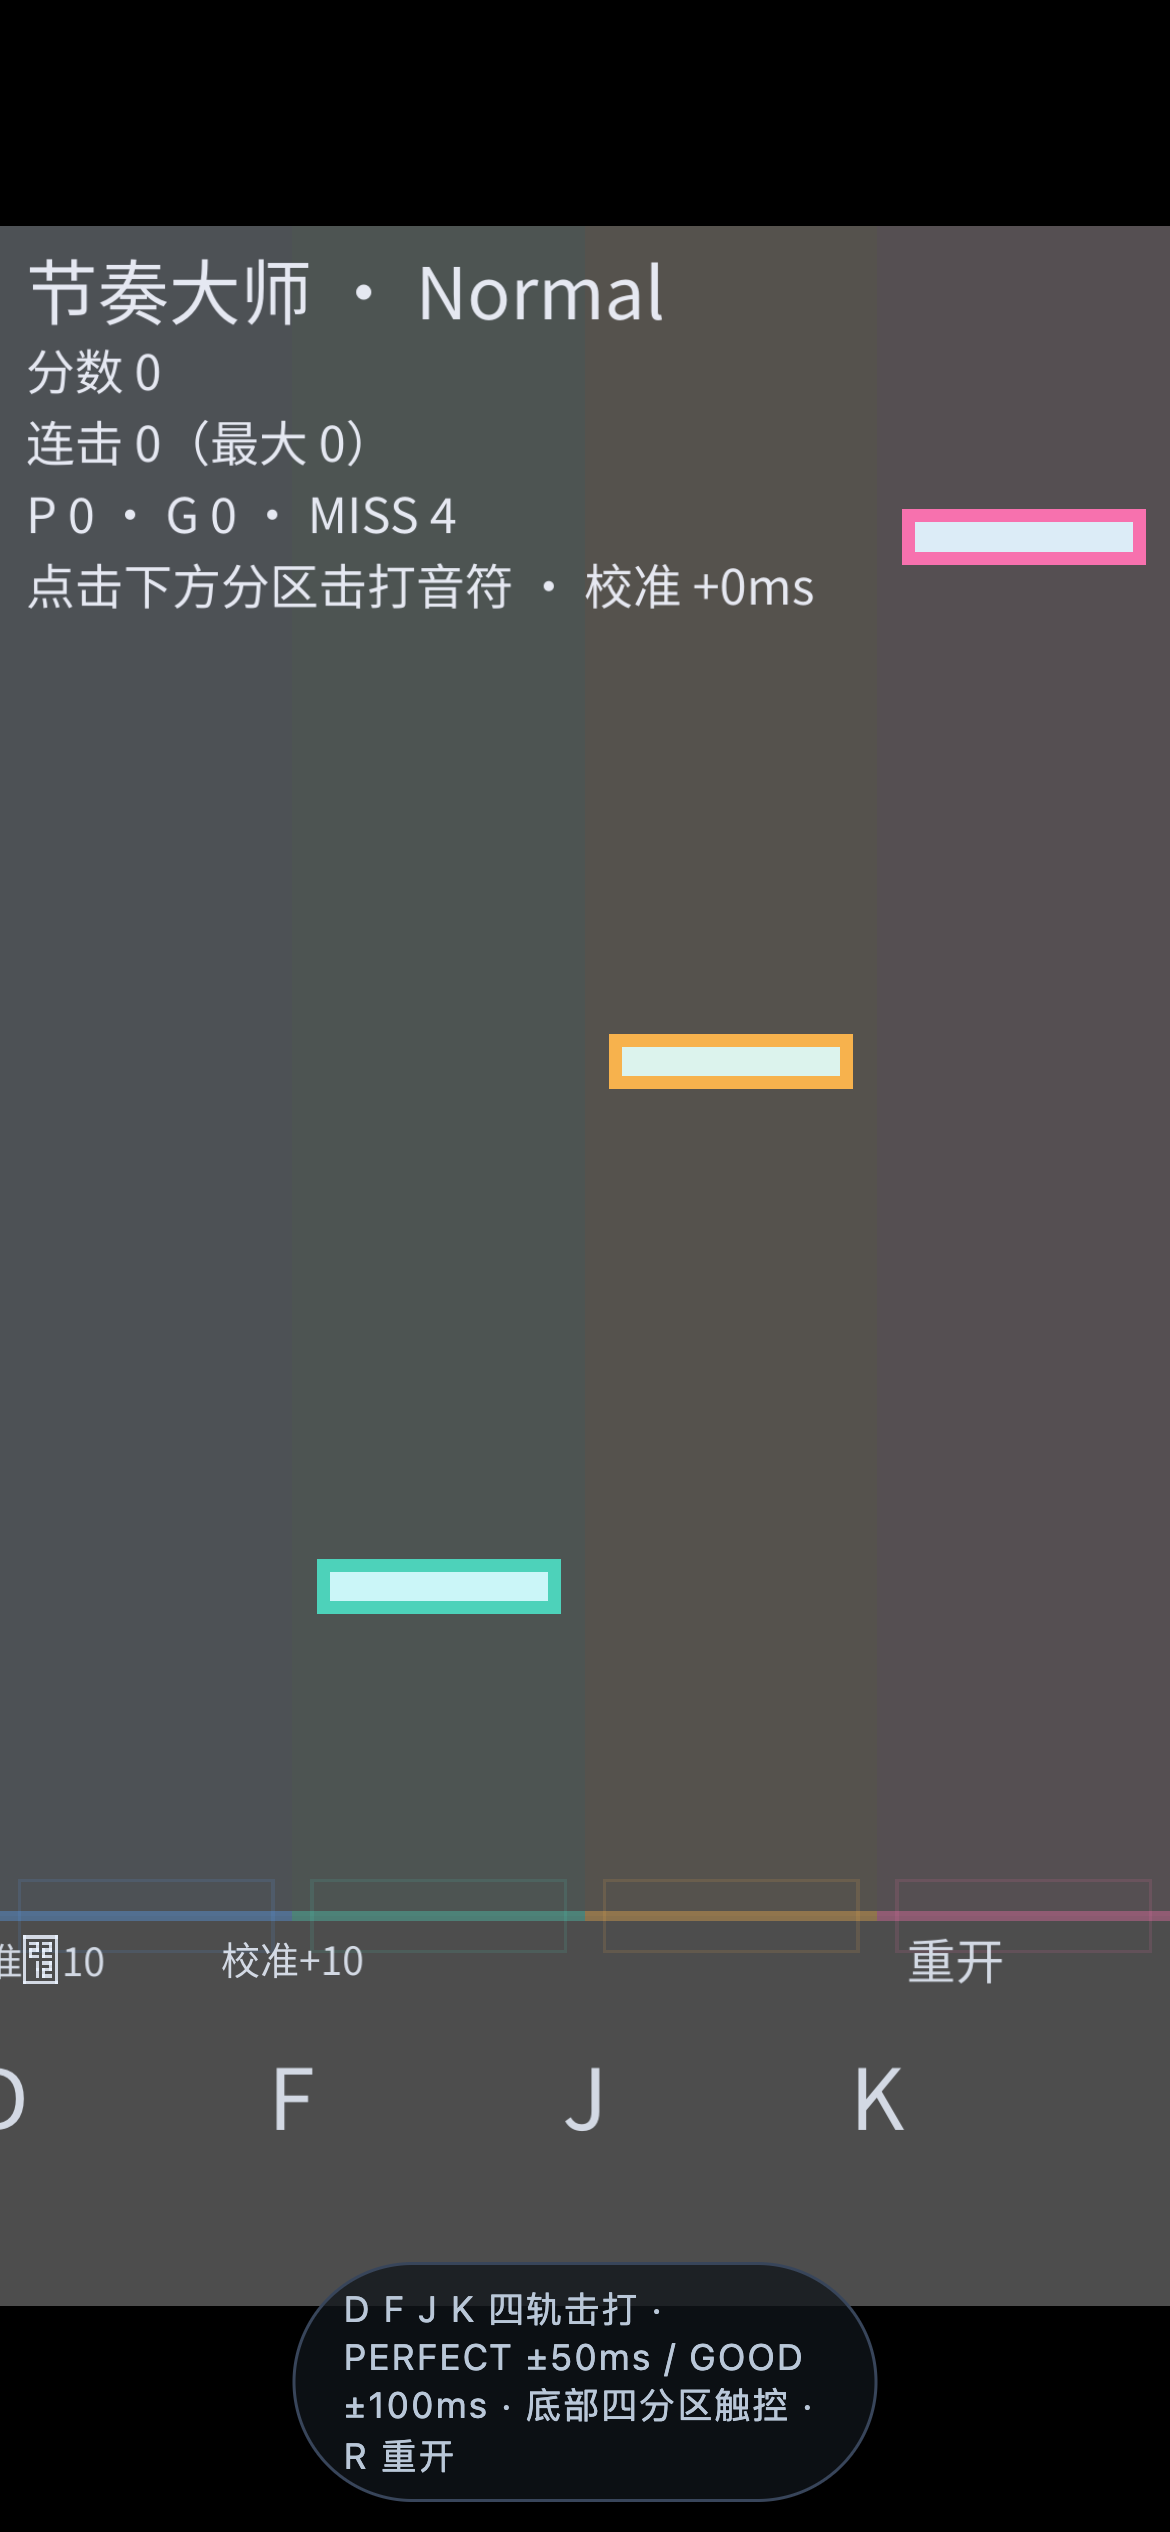
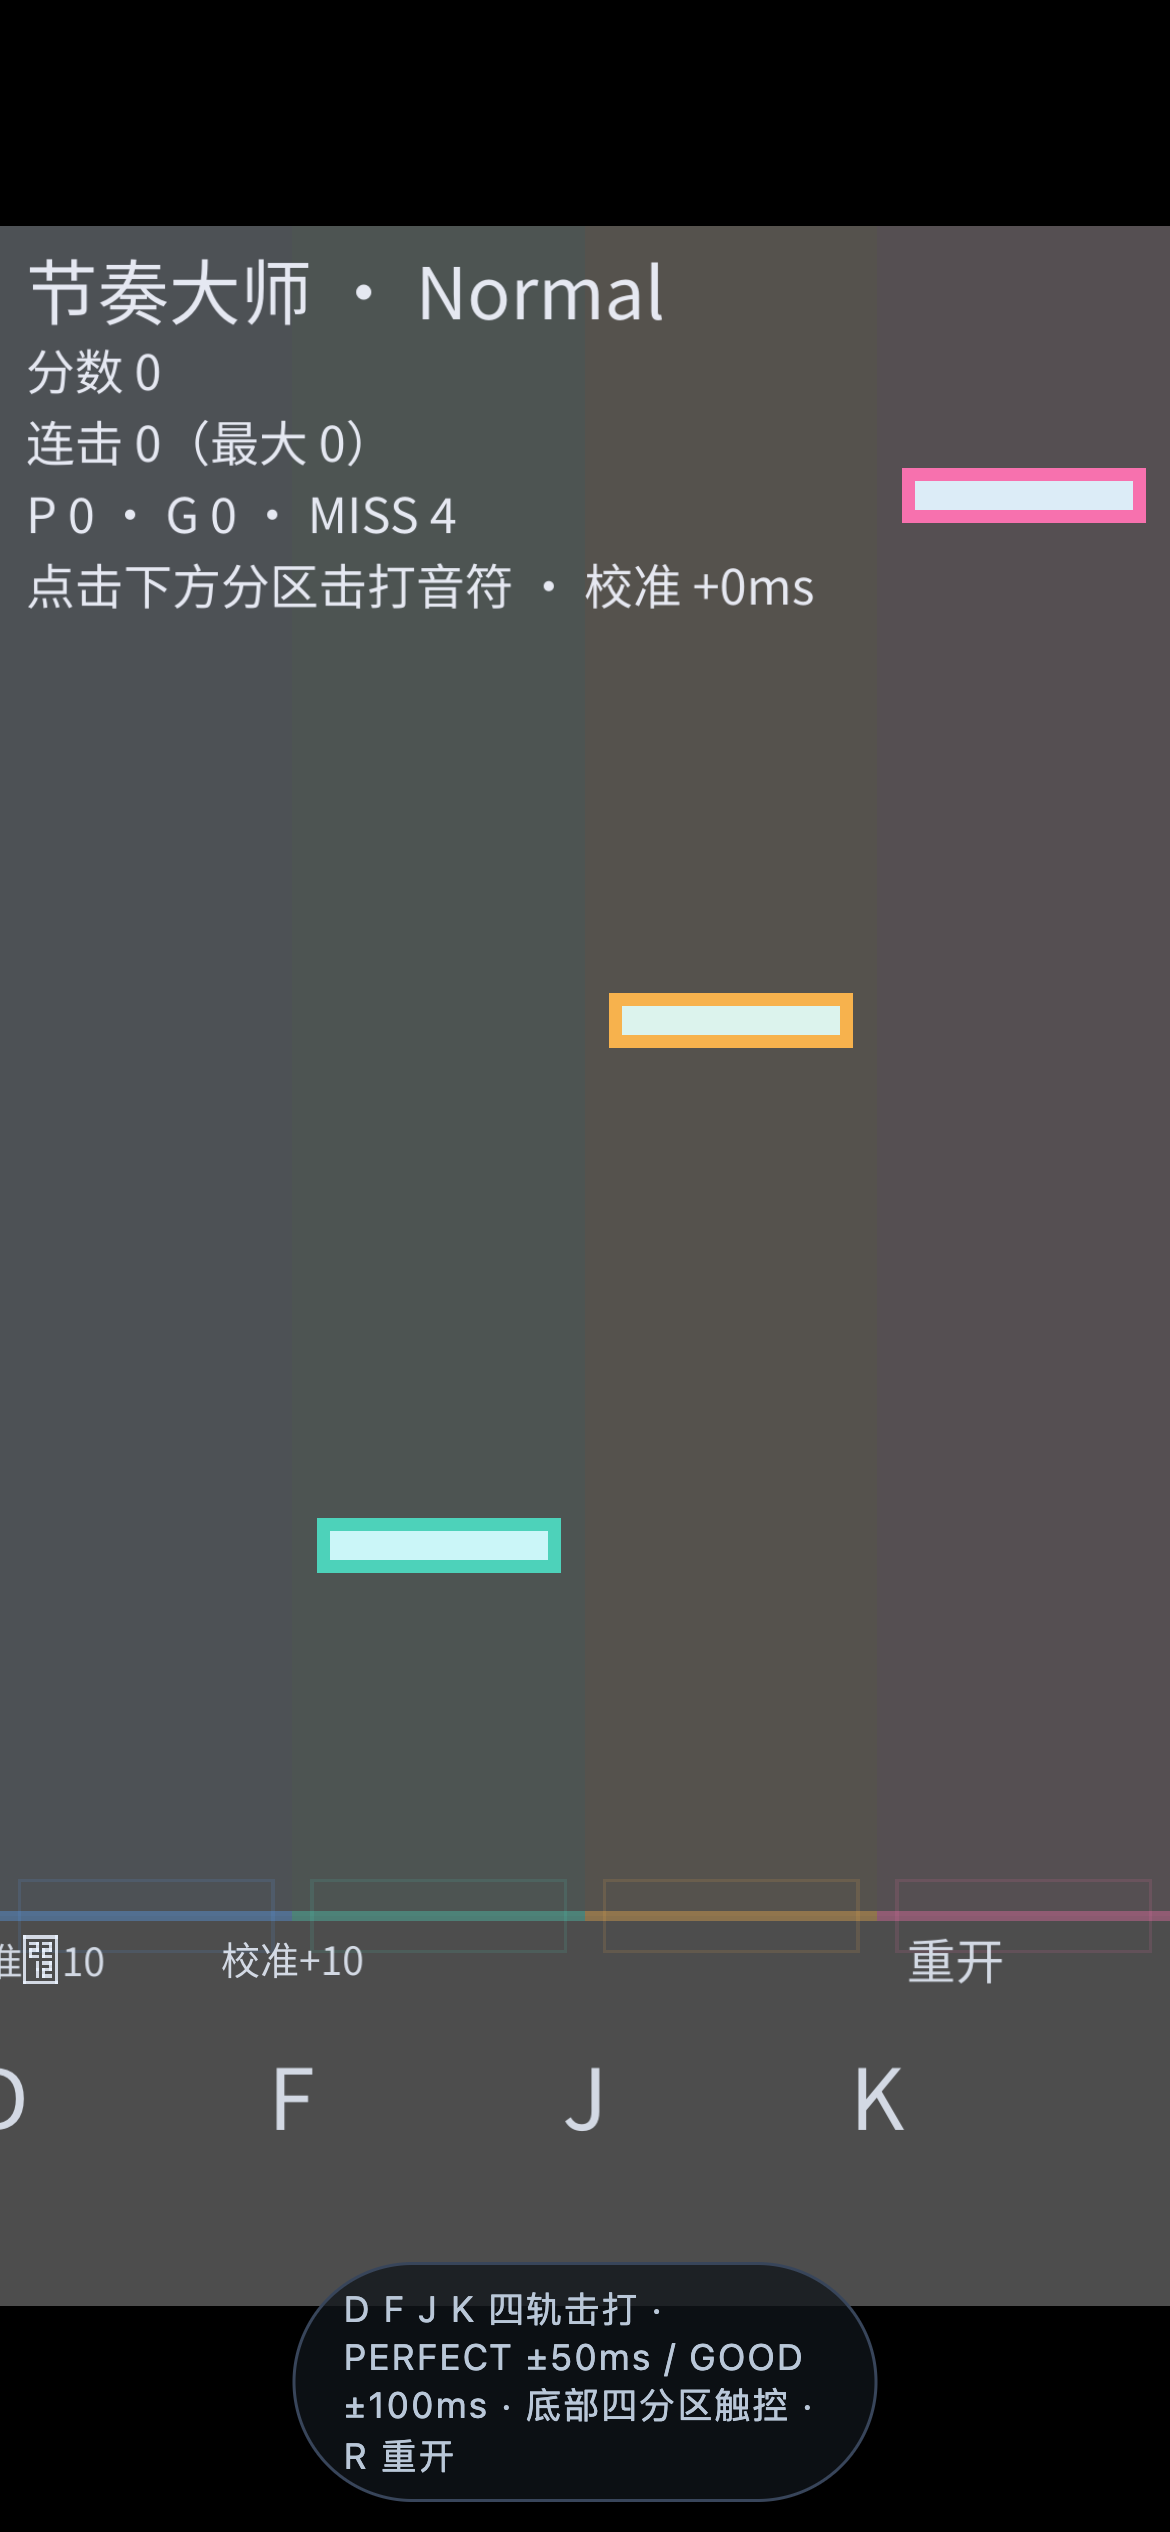
fix(game-10): 调参面板接线补装 + 试玩验收包与门禁证据
- main.gd 补 TuningPanel 实例化（此前只有定义无装配点，线上 ?tuning=1 不出面板）
- qa/ 与 export/web/ 加 .gdignore，阻止证据截图/导出产物混入 pck；重导出 46 文件清单与线上版一致，main.gdc +460B 仅含接线差异
- qa/playtest-kit.md：试玩验收包（玩法指引 + 四问量表【待用户回填】+ 调参工作台说明与 TUNING_META 基线）
- qa/goal-artifacts-patch.json：goal.artifacts 回写载荷归档（op=playtest_kit，已 PATCH 落账并逐字段核对）
- qa/mobile/：preHook 复跑证据（MOBILE_SMOKE PASS 10/10，checkedAt 2026-10-09T13:45:38Z）

Changed region(s): [[0.2462, 0.5928, 0.4923, 0.6552], [0.7692, 0.1872, 0.9846, 0.2496], [0.5231, 0.3744, 0.7385, 0.4368]]

diff --git a/games/game-10/export/web/index.html b/games/game-10/export/web/index.html
@@ -97,7 +97,7 @@ body {
 
 		<script src="index.js"></script>
 		<script>
-const GODOT_CONFIG = {"args":[],"canvasResizePolicy":2,"ensureCrossOriginIsolationHeaders":false,"executable":"index","experimentalVK":false,"fileSizes":{"index.pck":2524032,"index.wasm":35376909},"focusCanvas":true,"gdextensionLibs":[]};
+const GODOT_CONFIG = {"args":[],"canvasResizePolicy":2,"ensureCrossOriginIsolationHeaders":false,"executable":"index","experimentalVK":false,"fileSizes":{"index.pck":2524160,"index.wasm":35376909},"focusCanvas":true,"gdextensionLibs":[]};
 const GODOT_THREADS_ENABLED = false;
 const engine = new Engine(GODOT_CONFIG);
 

diff --git a/games/game-10/qa/playtest-kit.md b/games/game-10/qa/playtest-kit.md
@@ -1,0 +1,142 @@
+# 《节奏大师》试玩验收包（playtest kit）
+
+- 目标：cmv0xypkw000dm94o58qf3x8j ｜ AppHost：game-10（cmv0xyobv000bm94o6kxqca8z）
+- 分支：`myrd/game-10-goal-cmv0xypkw000dm94o58qf3x8j`
+- 试玩入口（liveUrl）：https://leomac-studio.tail49399e.ts.net/apps/game-10/
+- 调参工作台：https://leomac-studio.tail49399e.ts.net/apps/game-10/?tuning=1
+- 包生成时间：2026-10-09（playtest 节点）｜ 试玩人：待定 ｜ **量表状态：待用户试玩回填**
+
+> 本包只提供「怎么玩、看什么、怎么把手感变成数值」。**好不好玩由试玩人说了算**——
+> 四问量表未经试玩人回填前，一律视为「待回填」，任何一方不得代填。
+
+---
+
+## 一、开玩前 30 秒须知
+
+- 一局 = **32 秒**：0–3.8s 是谱面等待期（无音符），第 3.8s 起第一颗音符落入，曲末 1s 收尾。
+- 四轨从左到右：**蓝 / 青 / 橙 / 粉**，对应键位 **D / F / J / K**；移动端为屏幕底部四个等宽触控分区。
+- 音符压到**判定线**（屏幕下方横线）时按键：越准分越高，漏按或按错窗口记 MISS。
+- 判定与得分（AC5 可复算口径）：**PERFECT ±50ms = 100 分**，**GOOD ±100ms = 60 分**，超窗 = MISS = 0 分。
+- 连续命中（P/G）累计 combo；**一次 MISS 立即清零**（连击里程碑每 10 连有画面震动反馈）。
+- 通关线：命中率（(P+G)/总音符）**≥60%** 判「通关！」，否则「未通关」。
+
+## 二、怎么玩
+
+### 桌面浏览器（键鼠）
+| 操作 | 键位 | 说明 |
+|---|---|---|
+| 击打四轨 | `D` `F` `J` `K` | 与四轨颜色一一对应 |
+| 重开一局 | `R` | **只在结算页生效**（进行中按 R 无效，防误触） |
+| 换难度 | `←` `→` | **只在结算页开放**（进行中切换会打断谱面，故被禁止） |
+
+### 移动端（触屏，真机或浏览器移动仿真）
+- 屏幕底部整带为四轨触控分区，**支持多点同时触控**（四指并发各自独立跟踪触点）。
+- 判定线与触控带之间有一条工具按钮行（与四轨分区零重叠）：
+  - `校准−10` / `校准+10`：延迟校准，步长 10ms、范围 ±300ms，**保存后重启仍生效**（持久化）；
+  - `难度‹` / `难度›`：仅结算页出现；
+  - `重开`：仅结算页生效。
+
+### 结算页看什么（AC5 人工复算用）
+结算面板逐行展示：**总分 ｜ 最大连击 ｜ PERFECT / GOOD / MISS 计数 ｜ 命中率 ｜ 当前难度**。
+复算方法：`总分 = PERFECT×100 + GOOD×60`（MISS 不计分），应与面板一致。
+
+## 三、四档难度（对照实现配置表）
+
+同一曲目（固定 32s、种子 20261010+难度号，谱面经 ChartGen.validate 校验）：
+
+| 档位 | 下落速度 px/s | note 最小间隔 s | 体感预期 |
+|---|---|---|---|
+| Easy | 300 | 1.10 | 稀疏慢落，热身 |
+| Normal（默认） | 380 | 0.85 | 中等密度 |
+| Hard | 470 | 0.62 | 密集快落 |
+| Expert | 560 | 0.46 | 高压连打 |
+
+> 试玩建议顺序：Normal 起手 → 换 Expert 感受密度差 → 回 Easy 校准手感。换档在结算页操作。
+
+## 四、试玩量表（四问，逐条回填，不要合并）
+
+> 回填方式：直接在下面每题的「【回填】」处写结论。四问答完 = 一次完整试玩验收。
+
+**① 首分钟能否看懂目标与操作？**
+- 是 / 否：
+- 卡点（若否，卡在哪：开局提示够不够、判定线是否好找、键位/分区是否直观）：
+- 【回填】待用户试玩
+
+**② 结束时想不想再来一局？**
+- 评分（1=完全不想 … 5=立刻再来）：
+- 原因：
+- 【回填】待用户试玩
+
+**③ 手感与反馈（打击感 / 音效 / 画面响应）**
+- 评分（1–5）：
+- 分项备注（命中弹跳/闪白、MISS 红闪、连击里程碑震动、音效时机是否跟手）：
+- 【回填】待用户试玩
+
+**④ 节奏有没有明显断档或无聊段？**
+- 有 / 无：
+- 出现在第几秒（可参考锚点：0–3.8s 固定等待期；Easy 档 1.10s 间隔是否会松散；Expert 档 0.46s 间隔是否会过载）：
+- 【回填】待用户试玩
+
+## 五、调参工作台（把「手感不对」变成具体数值）
+
+入口：**https://leomac-studio.tail49399e.ts.net/apps/game-10/?tuning=1**
+
+> **⚠ 面板上线状态（playtest 节点 2026-10-09 实测，如实告知）**：线上部署（commit 2ccb38e）
+> 的**调参数值桥已生效**（`?tuning=<JSON>` 启动即应用），但**面板不会出现**——面板脚本有定义、
+> 无实例化点（装配缺陷）。本节点已补接线（main.gd，PREFLIGHT+SMOKE 复跑全绿）并重新导出，
+> **面板待下一次部署生效**。在那之前调参请直接把 JSON 拼进 URL，例如：
+> `https://leomac-studio.tail49399e.ts.net/apps/game-10/?tuning=%7B%22note_speed_scale%22%3A1.3%7D`
+> （即 `?tuning={"note_speed_scale":1.3}` 的 URL 编码形；多键在 JSON 内逗号分隔后整体编码）。
+
+1. 打开后画面**右上角**浮出「调参工作台」面板（仅网页环境出现，带 `?tuning=` 任意值即可，`?tuning=1` 亦可）；
+2. 四个滑杆**拖动即时生效**，边拖边打几颗音符感受差别；
+3. 调到满意 → 点 **「复制调参 URL」** → 把链接发回来 = 一次完整调参结果；
+4. 数值协议：只认下表 4 个键（`GameState.TUNING_META`），URL 里出现未声明键会被忽略并在 diff 说明中标注。
+
+### 当前基线（代码默认值 = 部署版本生效值）
+
+| 键 | 含义 | 当前值 | min | max | step |
+|---|---|---|---|---|---|
+| `perfect_window_ms` | PERFECT 判定半窗 | 50 | 30 | 80 | 5 |
+| `good_window_ms` | GOOD 判定半窗 | 100 | 60 | 150 | 10 |
+| `note_speed_scale` | 全局下落速度倍率（难度表 × 此值） | 1.0 | 0.5 | 2.0 | 0.05 |
+| `calibration_offset_ms` | 延迟校准偏移（持久化） | 0 | −300 | 300 | 10 |
+
+> 调参示例：觉得音符偏慢 → `note_speed_scale` 拉到 1.3；总差半拍 → 微调 `calibration_offset_ms`；
+> 觉得 PERFECT 太苛刻 → `perfect_window_ms` 升到 60。
+
+### 调参结果回写协议（收到试玩人的调参 URL 后才执行）
+1. 解析 `?tuning=<JSON>`，与上表基线 diff（未声明键列出但忽略）；
+2. 数值经 `POST $PLATFORM_API_URL/api/v1/game-design-specs/:id/revisions` 写进 `spec.numeric`
+   （产生新版本、带 sourceTrajectoryId 溯源）→ `POST /api/v1/game-design-specs/:id/approve` 拍板；
+3. **下一轮工作流按新 spec 重部署**生效——不在本节点直接改代码默认值（spec 是唯一事实源）。
+
+> ⚠ 前置缺口（2026-10-09 核实）：本 goal（cmv0xypkw000dm94o58qf3x8j）在平台
+> `game_design_specs` 表中**尚无任何版本行**，工程内亦无 `.myrd/spec/design-spec.json`
+> ——`revisions` 端点对不存在的 spec 返回 404。收到试玩结果后需先经
+> `POST /api/v1/game-design-specs`（goalId 维度）建首版 spec 才能走上述回写。
+
+## 六、本包依据（机器侧已核，不代替人的判断）
+
+- **移动端门禁（preHook: mobile-web-smoke）**：`qa/mobile/report.json` verdict=**PASS**，
+  10/10 checks 全绿（网络全通 / console 零错 / canvas 挂载 / 首帧非纯色 / 画面在动 /
+  触摸到达 / 触摸响应 / 音频解锁器 / 无横向溢出 / FPS 38），url=本包 liveUrl，
+  checkedAt=2026-10-09T13:45:38Z；分阶段截图 phase-load / phase-tap / phase-joystick.png 同目录。
+- **门禁资产在库核查（本节点）**：判定脚本 6 件套在
+  `std-skills/godot-game-dev/scripts/`（preflight.py / smoke.sh / input-fuzz.sh / playtest.sh /
+  resolve-godot.sh / mobile-web-smoke.mjs）；`.myrd/routines.yaml` 含 `id=godot-smoke` 与
+  `id=mobile-web-smoke` 两条 routine；参数化模板
+  `std-skills/godot-game-dev/references/{godot-smoke-routine.md, mobile-smoke-routine.md}` 在库。
+- **试玩指引基准**：工程内无 `.myrd/spec/design-spec.json` → 本包「怎么玩/看什么」按实现说明写
+  （main.gd / conductor.gd / game_state.gd / chart.gd，数值逐项可溯源）。
+- **目标产物回写记录**：本节点以工作流注入的 MYRD_TOKEN（workflow-node 身份）执行
+  `PATCH /api/v1/goals/cmv0xypkw000dm94o58qf3x8j`，artifacts 合并结果 = 原 3 条（create_requirement /
+  write_document / run_workflow）+ 本包 1 条（op=playtest_kit），共 4 条；PATCH 载荷原样归档于
+  `qa/goal-artifacts-patch.json`，回写后逐字段比对一致。
+- **回写过程事故与恢复（如实记录）**：2026-10-09T13:55Z 第一次 PATCH 因本地误判「无凭据」，
+  以空数组 `{"artifacts":[]}` 探测端点，意外带真实凭据发出 → 原有 3 条产物被清空（数据库即时核得
+  count=0）；随即以本会话此前从数据库 dump 的原文重建 3 条 + 追加 playtest_kit 条目重新 PATCH，
+  并逐字段比对确认与原内容完全一致（无丢失、无走样）。教训已记：探测性请求必须先核实凭据状态，
+  禁止以破坏性载荷试探写端点。
+- **真机 AC4 口径**：模拟门禁只证明「移动端能不能玩」的机判下限；四指 1000 次 0 丢触、
+  触控到判定延迟中位数 ≤80ms 需真机走查，试玩时可顺手留意丢触/漂移并写进量表④备注。
